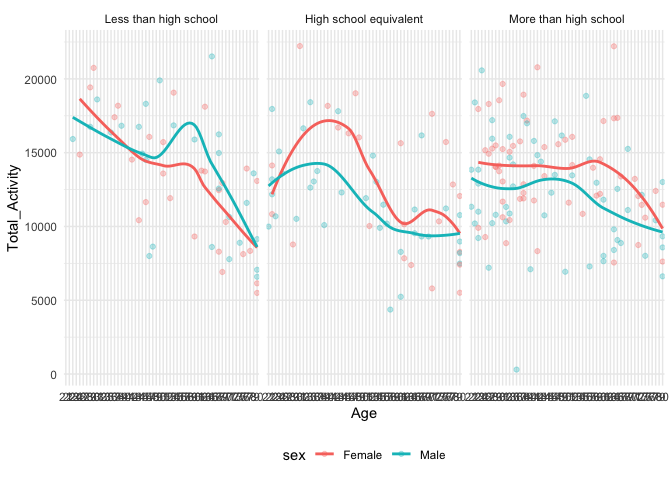
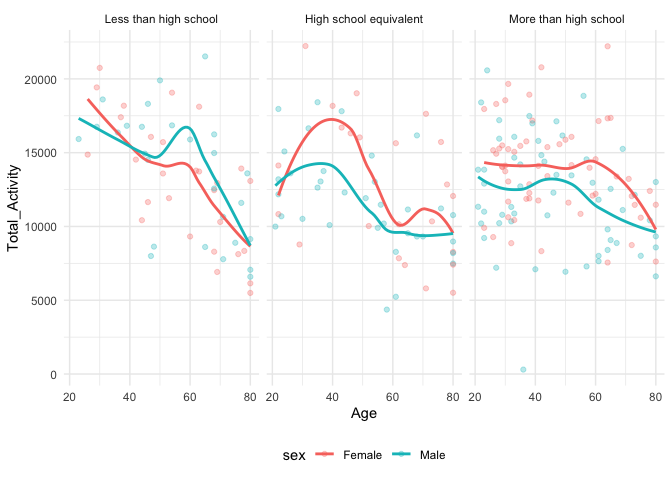
Problem3: changed age to numeric varibale

Changed region(s): [[0.0938, 0.0625, 1.0, 0.8438]]

diff --git a/p8105_hw3_jh4617.md b/p8105_hw3_jh4617.md
@@ -211,7 +211,8 @@ ggplot(data = problem2_ggplot, aes( x = year, y = mean_data_value, group = locat
   geom_line() +
    labs(x = "Year", 
         y = "Mean Data Value", 
-        title = "Mean Data Value for Excellent Response by Year")
+        title = "Mean Data Value for Excellent Response by Year") +
+  theme_minimal()
 ```
 
 ![](p8105_hw3_jh4617_files/figure-gfm/unnamed-chunk-8-1.png)<!-- -->
@@ -325,6 +326,7 @@ female is slightly lower than male.
 ``` r
 total_activity = 
   problem3_join |>
+  mutate(age = as.numeric(age)) |>
   pivot_longer(
     starts_with("min"),
     names_to = "minute",
